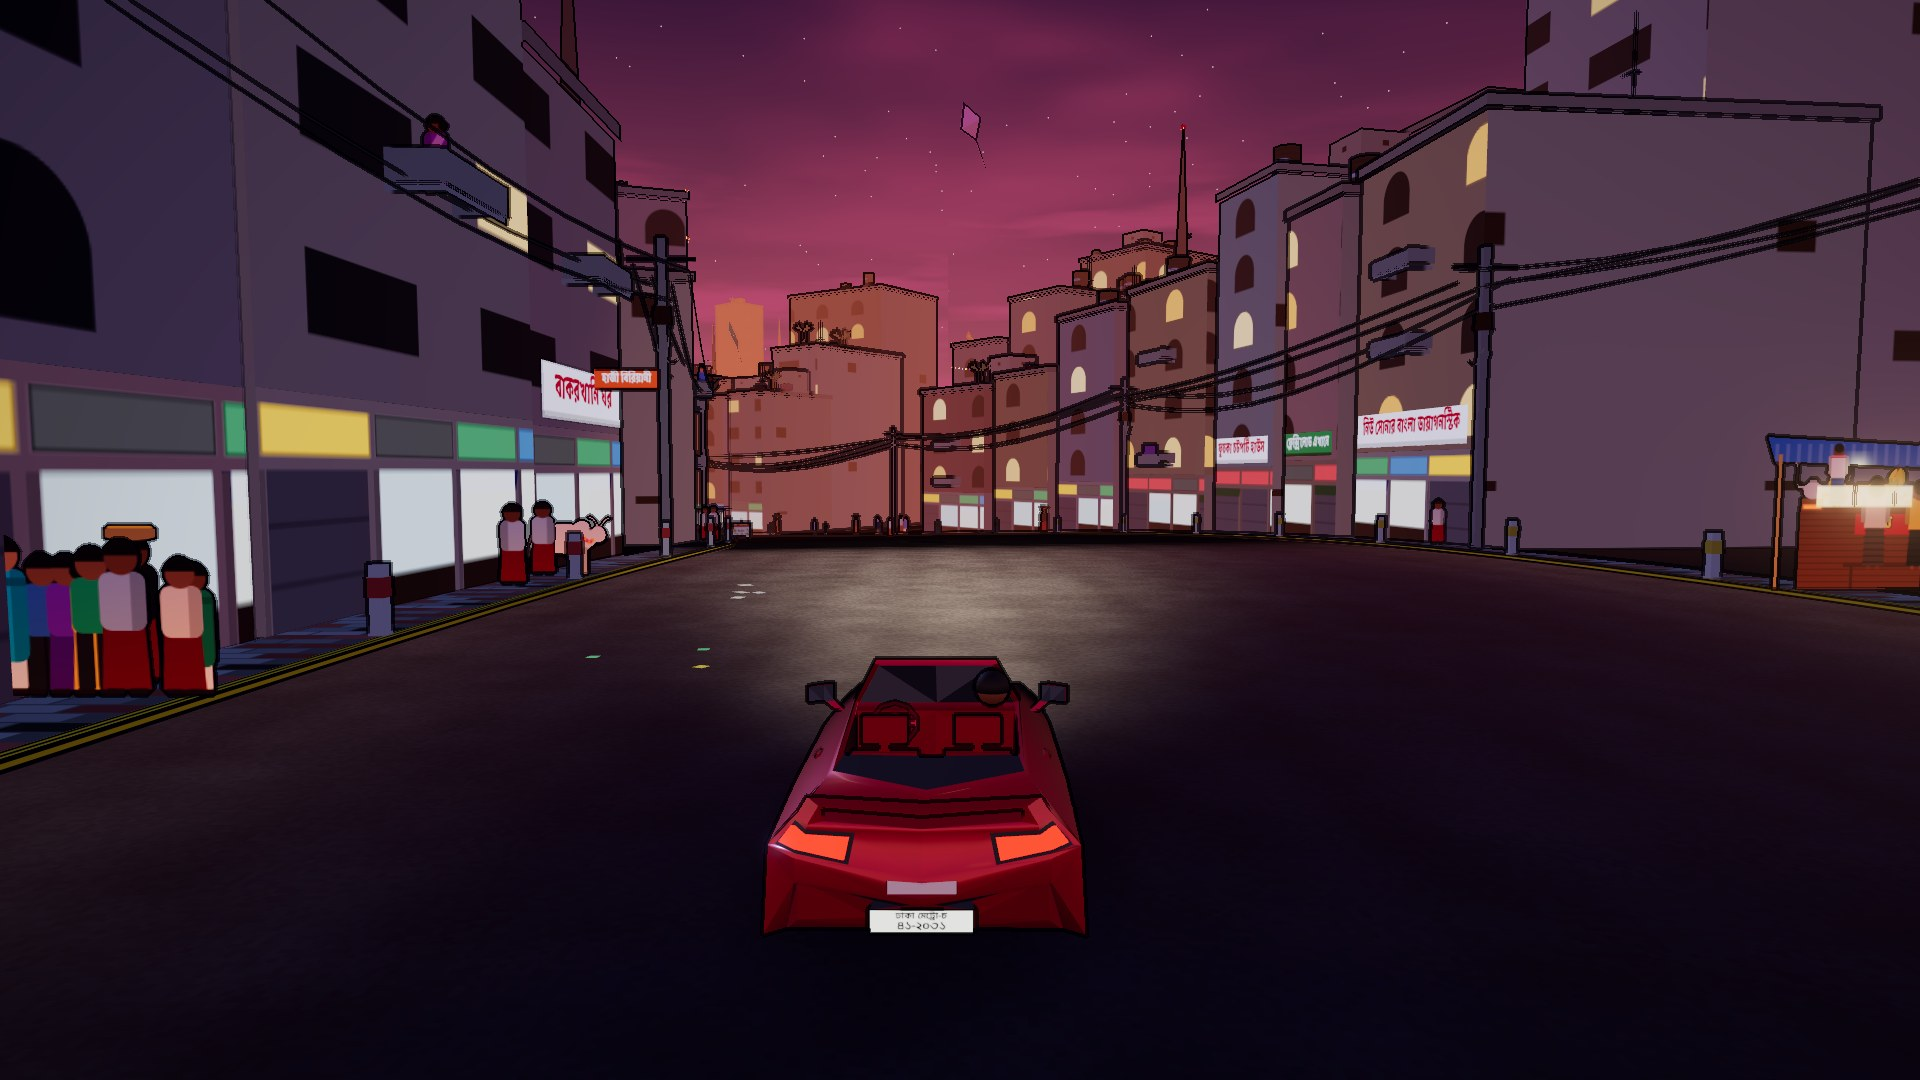
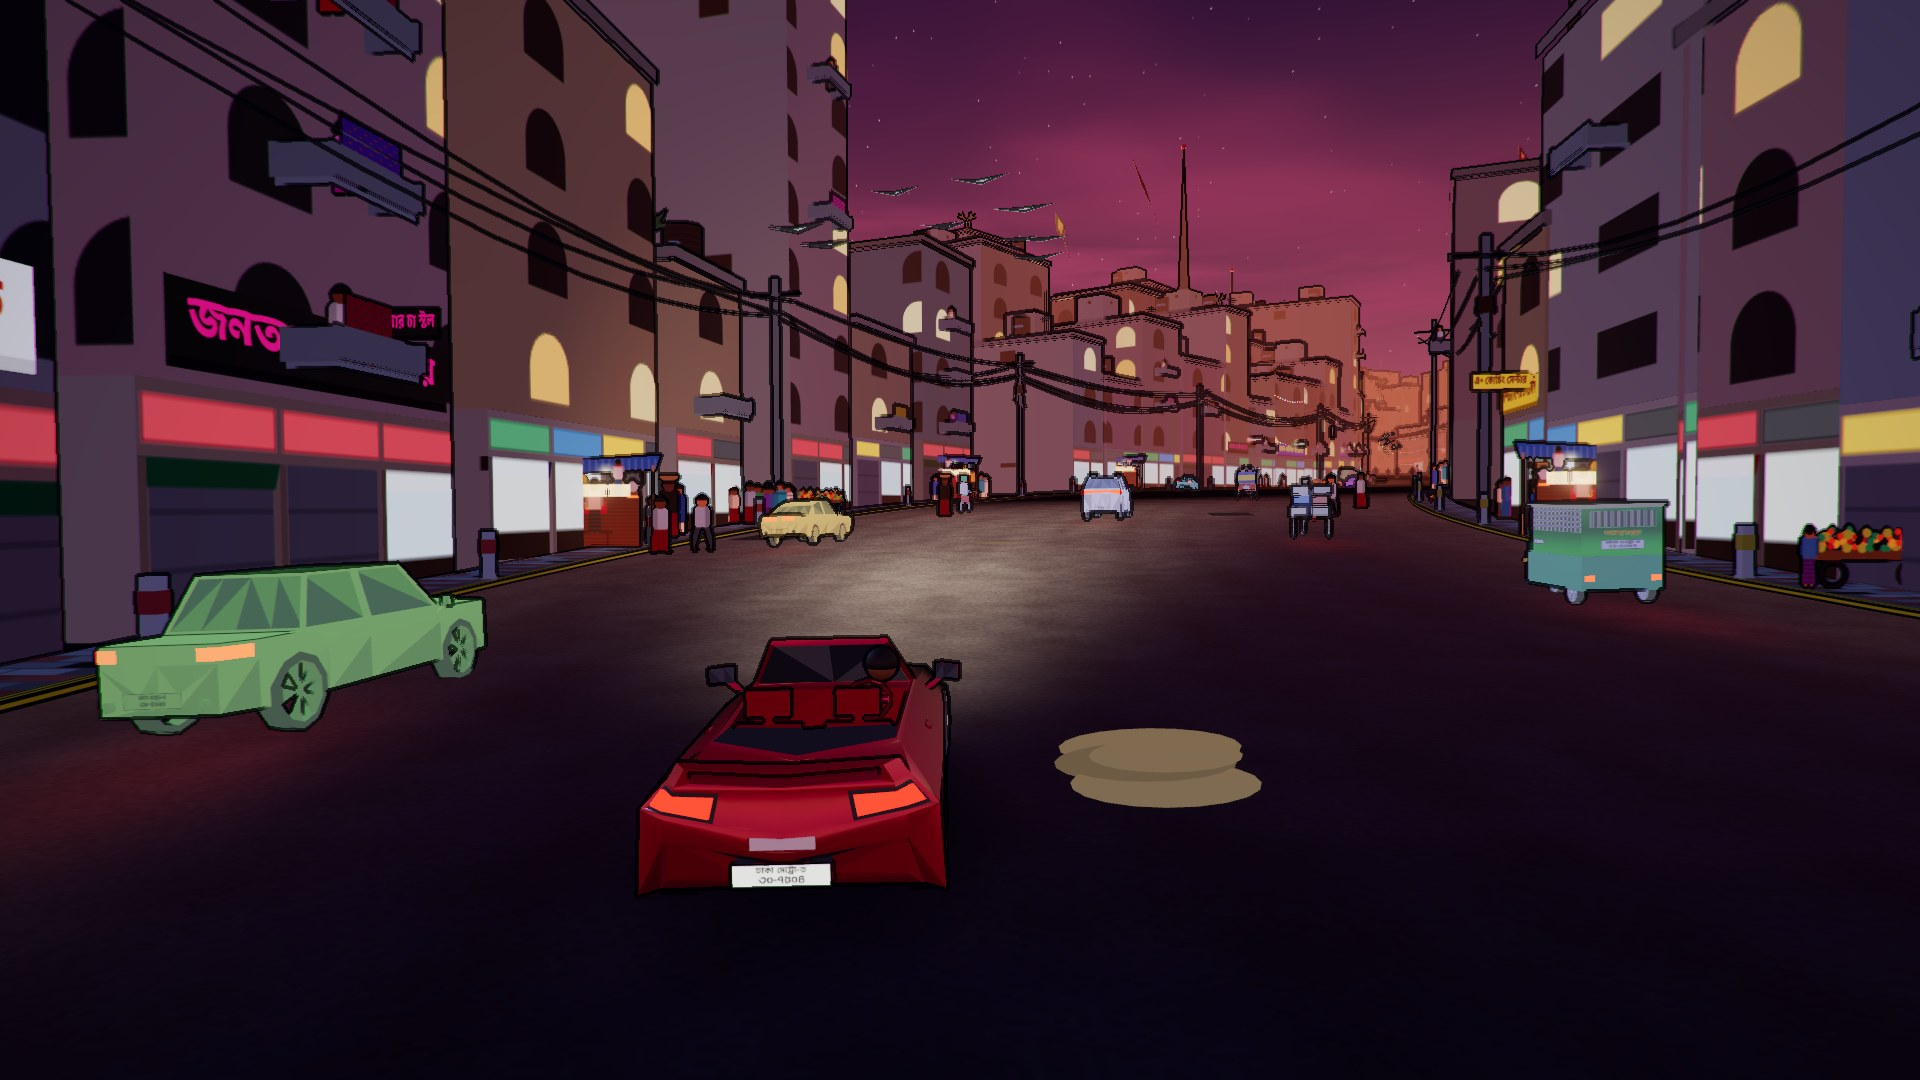
README screenshots with traffic; neon rivals stop glowing at night
- The five race screenshots are retaken a little way into each race, at a moment
  with traffic and rivals just ahead, people on the pavements, the car on the
  road, and no wrecks, road works or lightning in frame (before, they were taken
  in the first seconds, before you reach any traffic)
- The night lift on cars now judges a paint by its brightest channel, not its
  luminance: neon magenta rivals have low luminance but a full red channel, and
  were still glowing

diff --git a/src/game/fleet.js b/src/game/fleet.js
@@ -12,7 +12,8 @@ const MAX_PER_MODEL = 24;
 
 // Cars are drawn with their own copy of the world's materials, with a night lift: a glow in the car's own colour
 // plus a little cold light, so a dark car in a dark street is still a car and not a hole in the road. Only dark
-// paints get the colour glow: on white, yellow or pastel cars it pushed them past the bloom threshold and they shone.
+// paints get the colour glow: on white, yellow, pastel or neon cars it pushed them past the bloom threshold and they
+// shone. "Dark" is judged by the brightest channel, not luminance: a neon magenta has low luminance but a full red.
 function carMaterial(src, lift) {
   const m = src.clone();
   m.onBeforeCompile = (shader) => {
@@ -20,7 +21,7 @@ function carMaterial(src, lift) {
     shader.uniforms.uCarLift = lift;
     shader.fragmentShader = shader.fragmentShader
       .replace('#include <common>', ['#include <common>', 'uniform float uCarLift;'].join('\n'))
-      .replace(/vec3 outgoingLight = /, ['float carLum = dot(diffuseColor.rgb, vec3(0.299, 0.587, 0.114));', 'reflectedLight.indirectDiffuse += (diffuseColor.rgb * 0.8 * (1.0 - smoothstep(0.12, 0.45, carLum)) + vec3(0.05, 0.055, 0.07)) * uCarLift;', '\tvec3 outgoingLight = '].join('\n'));
+      .replace(/vec3 outgoingLight = /, ['float carHi = max(diffuseColor.r, max(diffuseColor.g, diffuseColor.b));', 'reflectedLight.indirectDiffuse += (diffuseColor.rgb * 0.8 * (1.0 - smoothstep(0.12, 0.45, carHi)) + vec3(0.05, 0.055, 0.07)) * uCarLift;', '\tvec3 outgoingLight = '].join('\n'));
   };
   m.customProgramCacheKey = () => 'car' + (src.customProgramCacheKey ? src.customProgramCacheKey() : '');
   return m;
